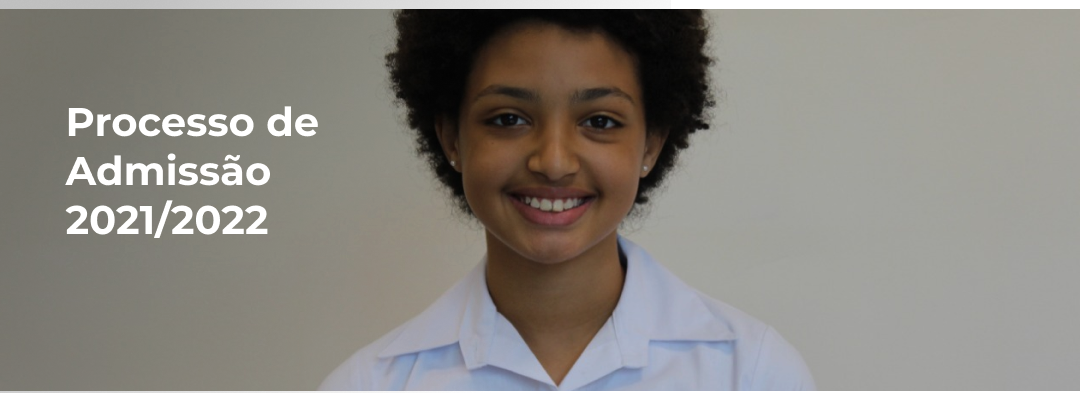
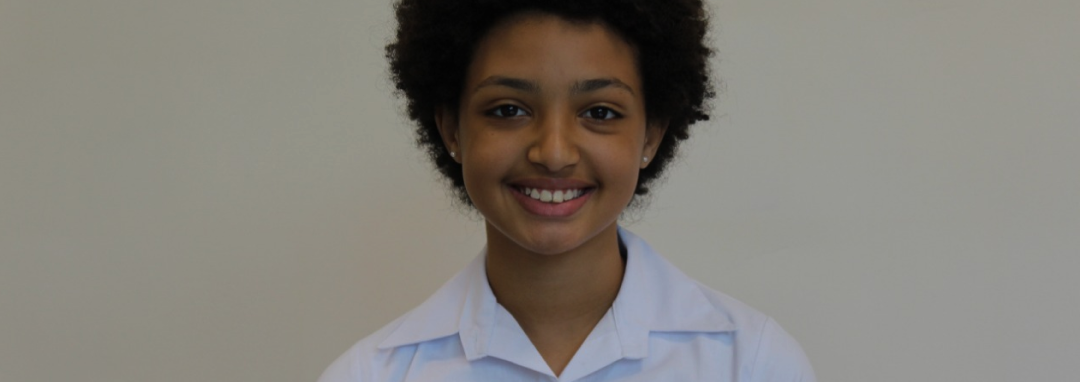
atualizações

diff --git a/home/src/components/Header.jsx b/home/src/components/Header.jsx
@@ -42,18 +42,22 @@ const Header = ()=>{
             <Carousel className='carouselzin'>
                 <CarouselItem interval={8000}>
                     <img src={Giroto} className='carrossel-img'></img>
+                    <h1 className='carousel-txt giroto'>Há mais de uma década germinando líderes.</h1>
                     <FiChevronsDown className='chevrons'/>
                 </CarouselItem>
                 <CarouselItem  interval={8000}>
                     <img src={Cleuton}  className='carrossel-img'></img>
+                    <h1 className='carousel-txt cleuton'>Totalmente gratuita e digital.</h1>
                     <FiChevronsDown className='chevrons'/>
                 </CarouselItem >
                 <CarouselItem interval={8000}>
                     <img src={Admissao}  className='carrossel-img'></img>
+                    <h1 className='carousel-txt admissao'>Processo de Admissão 2021/2022</h1>
                     <FiChevronsDown className='chevrons'/>
                 </CarouselItem >
                 <CarouselItem  interval={8000}>
                     <img src={Universidade} className='carrossel-img'></img>
+                    <h1 className='carousel-txt universidade'>Venha se graduar em nossa Faculdade.</h1>
                     <FiChevronsDown className='chevrons'/>
                 </CarouselItem>
             </Carousel>

diff --git a/home/src/components/style.css b/home/src/components/style.css
@@ -22,6 +22,7 @@
     height: 134px;
     padding: 38px 26px;
     box-shadow: 5px 5px 25px rgb(12, 1, 65);
+    display: none;
 
 }
 .logo{
@@ -153,4 +154,30 @@
     font-size: 30px;
     margin-bottom: 10px;
   }
+}
+@media only screen and (min-height: 500px){
+  .chevrons{
+    margin-bottom: 65px;
+  }
+}
+.carousel-txt{
+  position: absolute;
+  width: auto;
+  max-width: 729px;
+  top: 300px;
+  left: 80px;
+  color: #FFFFFF;
+  font-style: normal;
+  font-weight: bold;
+  font-size: 60px;
+}
+.cleuton{
+  max-width: 629px;
+}
+.admissao{
+  max-width: 429px;
+  text-align: left;
+}
+.universidade{
+  max-width: 629px;
 }
